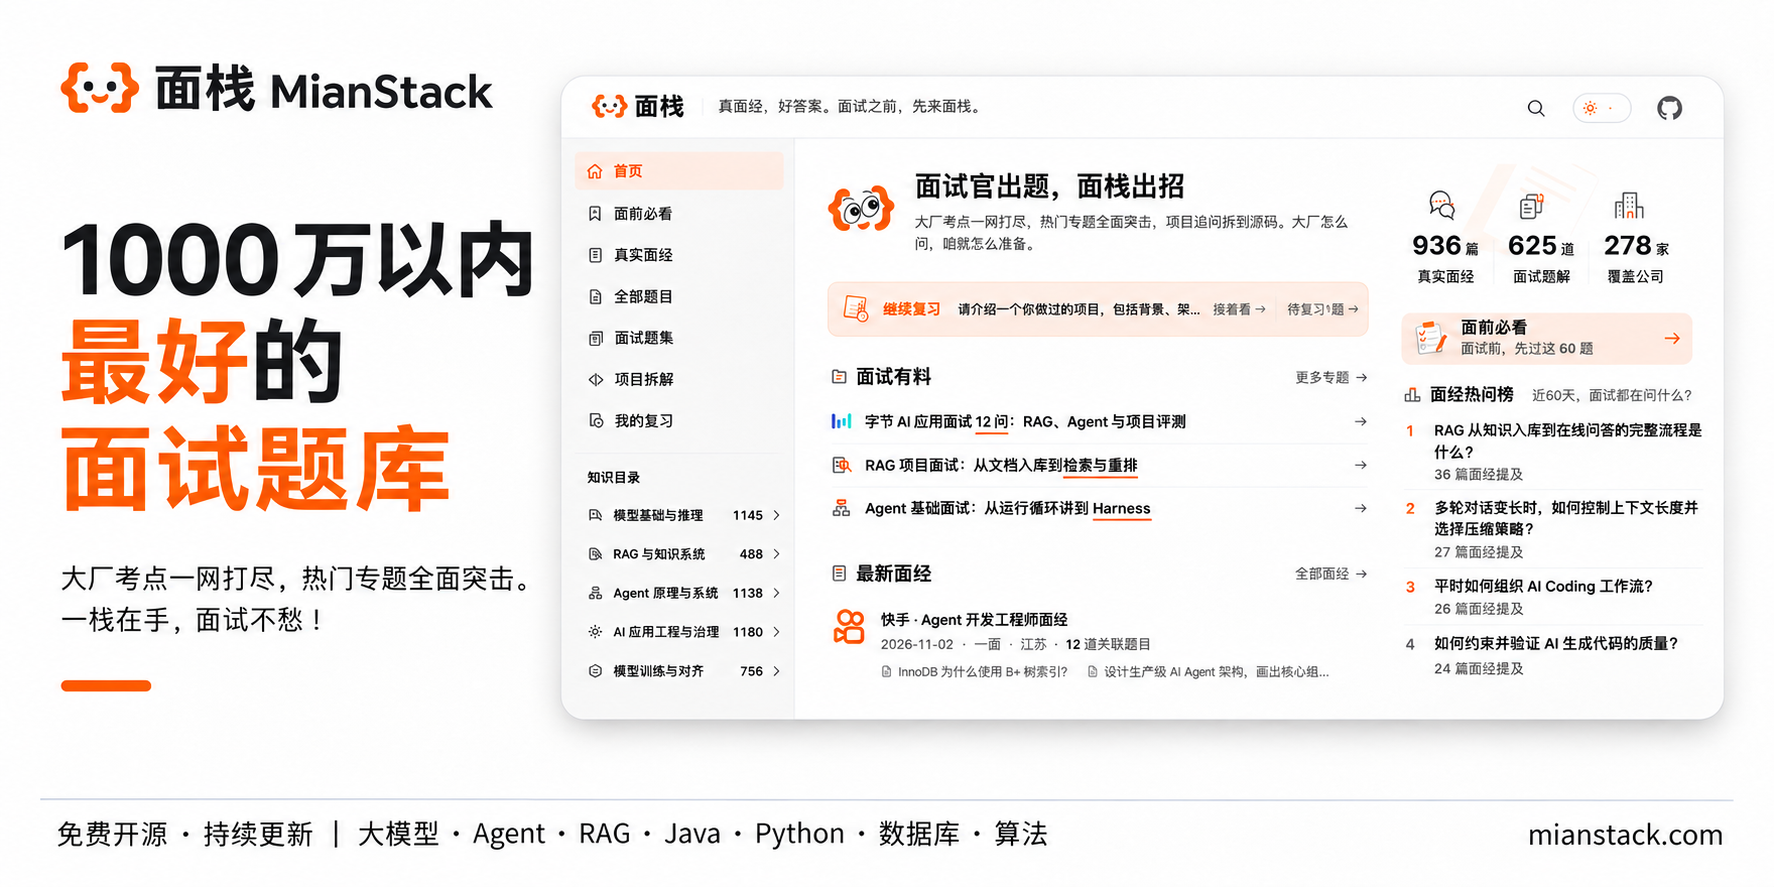
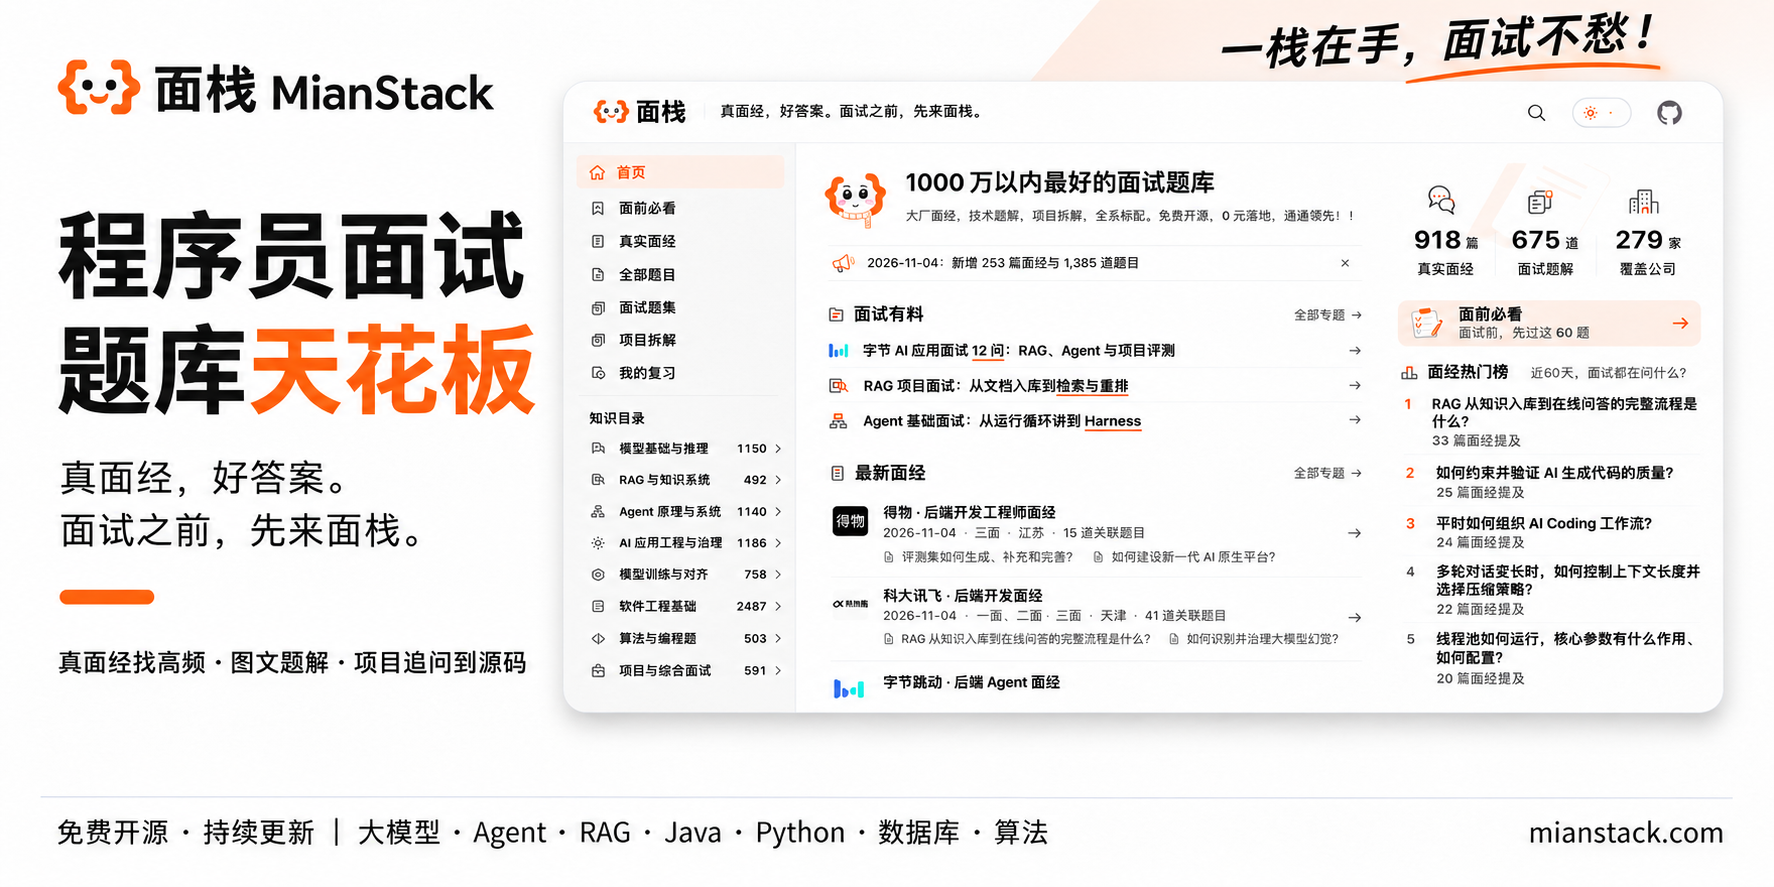
docs(readme): 更新题库介绍、备考导航与展示素材

diff --git a/README.md b/README.md
@@ -1,43 +1,67 @@
 <div align="center">
 
-# 🎯 面栈 MianStack｜AI 面试，一栈打尽。
+[![面栈：程序员面试题库天花板，一栈在手，面试不愁，展示网站首页](assets/readme/mianstack-overview.png)](https://mianstack.com/)
+
+# 🎯 面栈 MianStack｜程序员面试题库天花板
 
 ### 真面经，好答案。面试之前，先来面栈。
 
-**免费开源的 AI 面试题库，大厂面经、技术题、项目面试，一站备齐。**
+**大厂面经、技术题、项目面试，一栈备齐。打造全网最有价值的程序员面试题库！**
 
 <p>
-  <a href="INDEX.md"><img alt="6,900+ 道面试题" src="https://img.shields.io/badge/面试题-6%2C900%2B-FF6000?style=flat-square"></a>
-  <a href="INDEX.md#current-content"><img alt="600+ 道参考答案" src="https://img.shields.io/badge/参考答案-600%2B-FF6000?style=flat-square"></a>
-  <a href="indexes/interviews.md"><img alt="680+ 篇真实面经" src="https://img.shields.io/badge/真实面经-680%2B-FF6000?style=flat-square"></a>
-  <a href="indexes/collections.md"><img alt="350+ 份公开题集" src="https://img.shields.io/badge/公开题集-350%2B-FF6000?style=flat-square"></a>
+  <a href="https://mianstack.com/interview/"><img alt="真实面经数量" src="https://img.shields.io/badge/dynamic/json?url=https%3A%2F%2Fmianstack.com%2Fdata%2Fcontent-stats.json&amp;query=%24.interviews&amp;label=%E7%9C%9F%E5%AE%9E%E9%9D%A2%E7%BB%8F&amp;suffix=%20%E7%AF%87&amp;style=flat-square&amp;color=FF6000&amp;cacheSeconds=3600"></a>
+  <a href="https://mianstack.com/question/?answered=1&amp;hideCareer=0"><img alt="面试题解数量" src="https://img.shields.io/badge/dynamic/json?url=https%3A%2F%2Fmianstack.com%2Fdata%2Fcontent-stats.json&amp;query=%24.answers&amp;label=%E9%9D%A2%E8%AF%95%E9%A2%98%E8%A7%A3&amp;suffix=%20%E9%81%93&amp;style=flat-square&amp;color=FF6000&amp;cacheSeconds=3600"></a>
+  <a href="https://mianstack.com/company/?real=1"><img alt="覆盖公司数量" src="https://img.shields.io/badge/dynamic/json?url=https%3A%2F%2Fmianstack.com%2Fdata%2Fcontent-stats.json&amp;query=%24.companies&amp;label=%E8%A6%86%E7%9B%96%E5%85%AC%E5%8F%B8&amp;suffix=%20%E5%AE%B6&amp;style=flat-square&amp;color=FF6000&amp;cacheSeconds=3600"></a>
+    <a href="https://github.com/didilili/mianstack/stargazers"><img alt="Stars" src="https://img.shields.io/github/stars/didilili/mianstack?style=flat-square&amp;label=Stars&amp;color=FF6000"></a>
+      <a href="LICENSE"><img alt="MIT License" src="https://img.shields.io/badge/License-MIT-FF6000?style=flat-square"></a>
+
 </p>
 
-**[🚀 在线刷题](https://mianstack.com/question/)** · [🔥 面试有料](https://mianstack.com/topics/) · [🏢 查公司面经](https://mianstack.com/company/) · [💼 项目拆解](https://mianstack.com/project/) · [📚 GitHub 题库](INDEX.md)
+**[🚀 开始刷题](https://mianstack.com/question/)** · [🏢 查目标公司](https://mianstack.com/company/) · [🔥 面经热问榜](https://mianstack.com/#home-ranking-title) · [💼 项目拆解](https://mianstack.com/project/) · [📚 GitHub 题库](INDEX.md)
+
+[项目亮点](#features) · [八大知识方向](#knowledge-directions) · [配套教程与源码](#project-learning) · [加入社群](#community) · [一起共创](#contributing) · [贡献者](#contributors)
 
 </div>
 
-准备 **AI Agent、大模型应用开发、RAG 及相关工程岗位**，技术要复习，项目要准备，数据库、网络和算法也不能落下。面栈把这些面试题、参考答案和公开面经集中整理，校招、社招、转岗都能按自己的方向查找。
+**别再到处找了，面试备考的硬货，这一栈给你配齐。** 我花了数月调研、整理、打磨，做出了自己心目中的「顶配题库」。资料收藏了一堆，临到面试还是不知道先看什么——这份题库，就是想帮你把最费时间的准备功课提前做好。
 
-**网站免费使用，无需注册。** 可以按公司查面经、按知识点找题，直接读参考答案；也有整理好的面试专题、项目简历示例、自我介绍和面试反问指南。题目和已有参考答案都在本仓库开源，可直接在 GitHub 阅读。
+**面试官爱问什么，咱就重点练什么。** 面栈把真实面经里的提问与考点关联起来，让反复出现的问题有据可查，让备考重点更清楚。从技术基础到 AI 应用，从八股到项目实战，既能考前突击，也能深入学习。下一场面试，知道该练什么，更有底气接住一句「展开讲讲」。
 
-[![面栈：真实面经、面试题与参考答案、按方向复习](assets/readme/mianstack-overview.png)](https://mianstack.com/)
+**免费开源，持续更新，内容和体验都奔着顶配去做。** 面试在变，面栈就继续跟上；新面经、新考点、新项目，持续添硬货。目标就一个：**打造「地表最强」程序员面试题库天花板！！**
 
-## 🔥 面试要准备什么，这里直接找
+<a id="features"></a>
 
-- **查目标公司问过什么。** 字节、阿里、腾讯、美团、百度等公司的公开面经，按岗位、技术方向、校招社招和面试轮次筛选。能看原帖内容、实际提问，也能点进对应题目读参考答案。**[按公司查面经 →](https://mianstack.com/company/)**
+## ✨ 面栈，强得有点超纲
 
-- **复习技术题，直接看考点和答案。** Agent、RAG、模型原理、训练、数据库、网络、算法等按方向整理，支持搜索和专题、题型、难度筛选。已有 **600+ 道参考答案**，结合原理解释、方案对比、代码、图解和常见追问展开；列表标明哪些题已有答案。题目页还可以把问题一键带到 Kimi、千问或 ChatGPT 继续问。**[进入题库 →](https://mianstack.com/question/)**
+- **🎯 把真实面经，做成你的面试备考外挂。** 同一道题，哪些公司问过、多少篇面经提及、原话怎么问，关联起来一起看。再按知识点、专题、题型和难度筛选，优先攻下反复出现的问题。**高频有依据，复习直接冲重点。** **[找高频考点 →](https://mianstack.com/question/)**
 
-- **想集中准备，就看「面试有料」。** 按公司和技术主题整理好的题单，每题可展开参考回答、查看来源。例如 [字节 AI 应用面试](https://mianstack.com/topics/bytedance-ai-development-recurring/)、[RAG 项目面试](https://mianstack.com/topics/rag-retrieval-pipeline/)、[Agent 基础面试](https://mianstack.com/topics/agent-foundations-harness/)，选一份就能开始复习。**[浏览全部专题 →](https://mianstack.com/topics/)**
+- **🏢 大厂题路定向突击，冲哪家就先摸透哪家。** 公司、岗位、校招社招、面试轮次分门别类，原帖里的招聘季、批次信息也一并整理。公司专页集中看面经、岗位与关联题目，**目标公司问过什么，先拿来练一遍。** **[按公司准备 →](https://mianstack.com/company/)**
 
-- **考前时间紧，先过「面前必看」。** 网站按八个方向选出 60 道核心题，覆盖技术基础与项目问题。读过的题可以标为「待复习」或「已掌握」，题目、面经和公司都能收藏；下次打开「我的复习」，接着上次看。复习记录保存在当前浏览器。**[面前必看 →](https://mianstack.com/must-review/)** · **[我的复习 →](https://mianstack.com/study/)**
+- **💼 项目面硬货直接上桌，架构、选型、源码全安排。** 围绕 **20 个真实开源项目**，拆架构、看选型、找源码，配上简历示例和场景化答法。项目怎么介绍、方案为什么这么选、实现细节怎么追，都有具体项目可以对照。**项目面的底气，直接往源码里找。** **[进入项目拆解 →](https://mianstack.com/project/)**
 
-- **简历、开场介绍和反问，也有现成参考。** 从经历怎么写、自我介绍怎么组织，到行为题和面试最后该问什么，分别提供写法、结构与示例。**[简历与经历](https://mianstack.com/prepare/resume-and-experience/)** · **[自我介绍](https://mianstack.com/prepare/self-introduction/)** · **[行为面试](https://mianstack.com/prepare/common-and-behavioral/)** · **[面试反问](https://mianstack.com/prepare/ask-interviewer/)**
+- **📖 可能是你见过最舍得把答案讲透的题库。** **600+ 道参考答案**，结合官方文档、技术文章、优质题库与项目实现编写，参考资料随文标注。「核心回答」帮你抓住现场答法，原理、代码、图解和常见追问留给深入学习。先翻翻 **[Attention 怎么算](questions/Q-0036.md)**、**[B 树和 B+ 树有什么区别](questions/Q-0193.md)**，看看题解的成色。
+
+- **🧾 大厂面试情报站，真面经持续上新。** 真实面经持续收录，原帖内容、来源链接及可见的作者、发布时间一起保留。关注近期考点，回看原始问法，**让备考跟着真实面试走。** **[看最新面经 →](https://mianstack.com/interview/)**
+
+- **🔥 独家专题配热榜，考前突击上顶配。** **[面试有料](https://mianstack.com/topics/)** 按公司、项目和技术主题编排精华题单；**[面经热问榜](https://mianstack.com/#home-ranking-title)** 统计近 60 天发布的已收录面经，圈出反复出现的技术题；**[面前必看](https://mianstack.com/must-review/)** 先过八大方向的 60 道核心题。时间紧，就从这些重点下手。
+
+- **🔓 这份题库，最狠的是免费还开源。** 网站资料免费阅读，题目与全部已有参考答案直接在本仓库开放。在线刷、下载看、提改进，甚至拿去做自己的复习工具，都有入口。**把顶配备考，做成人人都能用的标配。** **[直接读题库 →](INDEX.md)**
+
+- **📌 收藏、复习、已掌握，你的备考有存档。** 题目、公司、面经随手收藏，给题目标记「待复习」「已掌握」，阅读历史和上次读到的题目也帮你记着。免注册，记录保存在当前浏览器，回来接着刷。**[我的复习 →](https://mianstack.com/study/)**
+
+- **🤝 最强题库，一起添硬货。** 你刚遇到的新题，可能就是下一位求职者的重点题。分享面经、补充答案、指出错误、反馈体验，都欢迎；公开面经已有原帖，给个链接就能贡献。让我们一起，打造**全网最有价值**的程序员面试题库。**[参与共创 →](#contributing)**
+
+- **🛠 教程、源码、神仙群友，直接给你配满队。** 配套 **[ai-agents-from-zero](https://github.com/didilili/ai-agents-from-zero)** 系统教程与完整实战源码，补原理、做项目、练面试，一路都有资料可跟。还有 **[「全宇宙最有爱的 AI Agent 社群」](#community)**，聊开发、聊面试、交流踩坑，也欢迎吹水吐槽。硬货一起学，弯路一起少走。
+
+**这道题为什么值得先刷？看看「多轮对话压缩」的真实问法。**
+
+[![多轮对话压缩题的关联面经：展示公司、岗位、原始问法与查看原面经入口](assets/readme/mianstack-question-sources.png)](https://mianstack.com/question/q-0051/#original-questions)
+
+[看这道题的参考答案与关联面经 →](https://mianstack.com/question/q-0051/)
 
 <a id="knowledge-directions"></a>
 
-## 📚 AI 技术、软件基础，八大方向集中复习
+## 📚 八大知识方向，从技术基础练到项目追问
 
 | 方向                                           | 题库内容                                                                |
 | ---------------------------------------------- | ----------------------------------------------------------------------- |
@@ -46,39 +70,63 @@
 | [Agent 原理与系统](indexes/agent.md)           | Agent Loop、规划、上下文、记忆、工具调用、MCP、Skills、工作流与多 Agent |
 | [AI 应用工程与治理](indexes/ai-engineering.md) | Prompt、评测、问题排查、日志与监控、安全、成本、性能与 AI 辅助编程      |
 | [模型训练与对齐](indexes/training.md)          | 预训练、SFT、LoRA、偏好对齐、强化学习与分布式训练                       |
-| [软件工程基础](indexes/software.md)            | 语言与框架、网络、数据库、缓存、并发与分布式系统                        |
+| [软件工程基础](indexes/software.md)            | Java、Python 等语言与框架，网络、数据库、缓存、并发、分布式系统与测试   |
 | [算法与编程题](indexes/coding.md)              | 数据结构、经典算法、SQL、手写代码与逻辑推理                             |
 | [项目与综合面试](indexes/career.md)            | 项目介绍、架构与选型、个人职责、实习经历、团队协作与面试反问            |
 
-还有 **[真实面经](indexes/interviews.md)** 和 **[公开题集](indexes/collections.md)**。题集保留发布者、原题与出处，可以对照不同作者整理的题目查漏补缺。完整收录与答案数量见 **[当前内容](INDEX.md#current-content)**。
+已收录 **8,300+ 道面试题**，另有 **350+ 份公开题集**，保留题集发布者、原题与出处，方便对照不同资料查漏补缺。
+
+**[全部题目与答案](INDEX.md)** · **[面经索引](indexes/interviews.md)** · **[公开题集](indexes/collections.md)** · **[简历、自我介绍、行为题与反问](https://mianstack.com/prepare/)**
+
+想集中突击，可以从 **[字节 AI 应用面试](https://mianstack.com/topics/bytedance-ai-development-recurring/)**、**[RAG 项目面试](https://mianstack.com/topics/rag-retrieval-pipeline/)** 或 **[Agent 基础面试](https://mianstack.com/topics/agent-foundations-harness/)** 开始。
 
 <a id="project-learning"></a>
 
-## 💼 项目面试：简历示例、技术选型、个人贡献和难点
+## 🛠 配套教程与源码，项目真的可以跟着做
 
-网站的 **[项目拆解](https://mianstack.com/project/)** 收录电商问数、深度研搜、RAGFlow、Dify、OpenCode 等开源项目，提供项目介绍、技术栈、源码入口、简历写法和对应面试题。准备把项目写进简历，或者已经在做相关项目，都可以按项目和技术方向查找。
+**[ai-agents-from-zero · AI 智能体实战教程](https://github.com/didilili/ai-agents-from-zero)** 提供系统教程、案例代码和完整项目源码，覆盖大模型、Prompt、RAG、MCP、LangChain、LangGraph 与多智能体开发。
 
-项目回答会具体展开架构、方案选择、职责、排查过程和验证方法；部分题目提供不同业务、不同技术栈的场景示例。参考时可以对照自己实际使用的技术与完成的工作。
+想补开发基础，就沿着教程系统学；想做项目，就跟着完整源码跑；准备面试时，再用面栈里的题目检查自己能否讲清原理、选型和实现。
 
-需要先补开发基础，配套 **[ai-agents-from-zero · AI 智能体实战教程](https://github.com/didilili/ai-agents-from-zero)** 提供系统教程、案例代码与完整项目源码，覆盖大模型、Prompt、RAG、MCP、LangChain、LangGraph 和多智能体开发。
-
-两个已完成的实战项目，可以直接跟着做：
+配套教程提供以下两个完整实战项目，可以跟着教程和源码动手做：
 
 | 项目         | 做什么                                       | 技术重点                                                 | 教程与源码                                                                                                                                            |
 | ------------ | -------------------------------------------- | -------------------------------------------------------- | ----------------------------------------------------------------------------------------------------------------------------------------------------- |
 | **电商问数** | 用自然语言查询经营数据，生成并执行 SQL       | NL2SQL、LangGraph、MySQL、Qdrant、Elasticsearch、FastAPI | [教程](https://github.com/didilili/ai-agents-from-zero/blob/main/实战项目-电商问数/0-前言.md) · [源码](https://github.com/didilili/shopkeeper-agent)  |
 | **深度研搜** | 多智能体协作检索资料、查询数据和生成研究报告 | DeepAgents、任务拆分、工具调用、多来源检索               | [教程](https://github.com/didilili/ai-agents-from-zero/blob/main/实战项目-深度研搜/0-前言.md) · [源码](https://github.com/didilili/deepsearch-agents) |
 
+<a id="community"></a>
+
+## 💬 全宇宙最有爱的 AI Agent 社群，等你入所
+
+欢迎加入 **[「全宇宙最有爱的 AI Agent 交流群——胡思妙想研究所」](https://github.com/didilili/ai-agents-from-zero/issues/46)**！
+
+AI 编程、Vibe Coding、Agent / RAG 项目、面试经验，都可以来聊；也欢迎吹水唠嗑、吐槽老板。学教程、做项目、准备面试，有群友一起交流，路上也热闹一点。
+
+**[申请入所 →](https://github.com/didilili/ai-agents-from-zero/issues/46)**，加入方式见申请帖。
+
 <a id="contributing"></a>
 
-## 🤝 一起完善题库
+## 🤝 一起共创，把下一道好题补进来
 
-欢迎分享面试新题、补充答案，也欢迎直接指出技术错误。**发个 Issue 就能参与，不用安装项目。**
+欢迎分享自己的面试经历、补充参考答案，或指出技术与来源中的错误。**发个 Issue 就能参与，不用安装项目。**
 
-- **[完善一道题](https://github.com/didilili/mianstack/issues/new?template=question-improvement.yml)**：提供题号或链接，写下问题和建议。
-- **[分享一篇面经](https://github.com/didilili/mianstack/issues/new?template=interview-submission.yml)**：分享自己的面试经历，或提供牛客、小红书等公开原帖链接。
+- **[内容纠错与补充](https://github.com/didilili/mianstack/issues/new?template=01-content-feedback.yml)**：题目或答案有误、面经信息不准确，或想补充新题和答案。
+- **[分享面试经历](https://github.com/didilili/mianstack/issues/new?template=02-interview-submission.yml)**：贴一个公开面经链接，或写下自己的面试经历和问题。
+- **[推荐面试题集](https://github.com/didilili/mianstack/issues/new?template=03-collection-recommendation.yml)**：发现值得收录的题单、题集或开源题库，贴个原始链接就能推荐。
+- **[反馈网站问题](https://github.com/didilili/mianstack/issues/new?template=04-website-problem.yml)**：搜索、筛选、收藏、复习或页面显示出现问题。
 
 具体方式见 **[贡献指南](CONTRIBUTING.md)**。
+
+<a id="contributors"></a>
+
+## 💛 贡献者，这一栈有你更强
+
+感谢每一位分享面经、完善答案、纠正错误和改进体验的朋友。**让我们携手共创，共创全网最有价值的面试题库。**
+
+[![GitHub 贡献者](https://contrib.rocks/image?repo=didilili/mianstack)](https://github.com/didilili/mianstack/graphs/contributors)
+
+[查看贡献记录 →](https://github.com/didilili/mianstack/graphs/contributors) · [我也来添硬货 →](#contributing)
 
 <details>
 <summary><strong>数据复用与仓库目录</strong></summary>
@@ -115,4 +163,4 @@ mianstack/
 
 ---
 
-**觉得有用，点个 ⭐ Star，面试前回来查。** 也欢迎分享给正在准备 AI 岗位的朋友。
+**一栈在手，面试不愁！觉得有用，点个 ⭐ Star，面试前回来查。** 也欢迎分享给正在准备技术面试的朋友，带着你遇到的新题一起回来。
